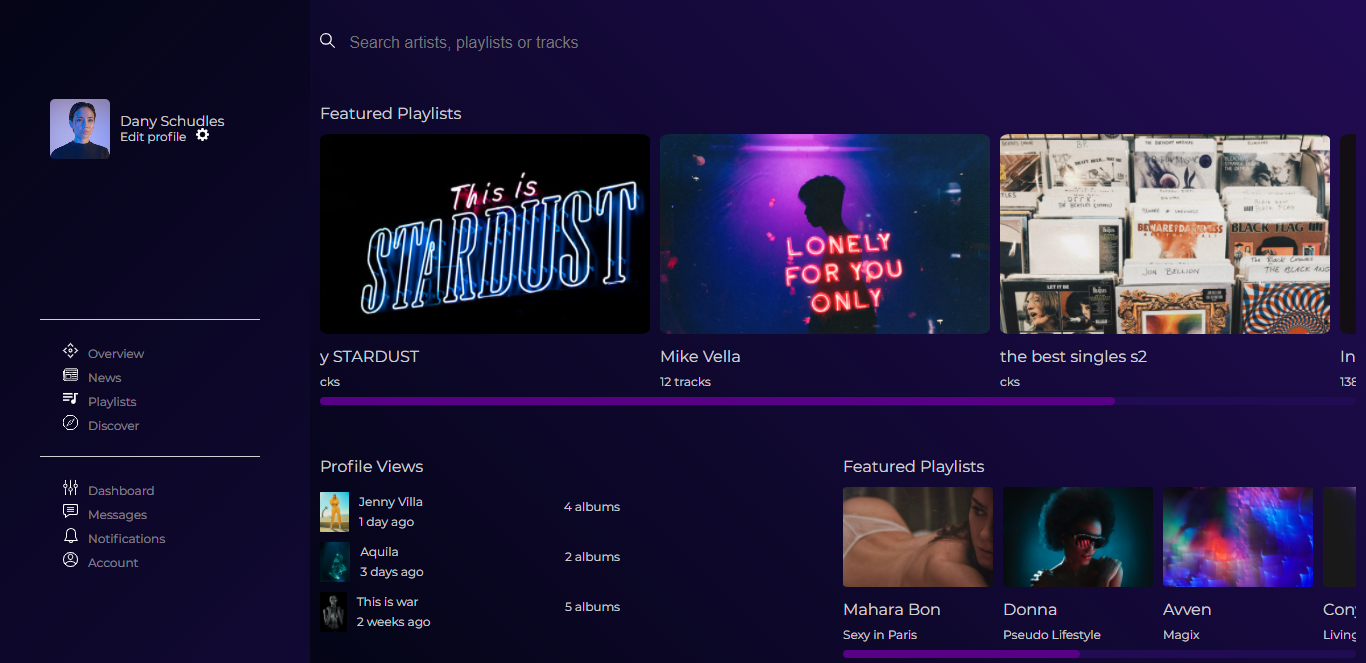
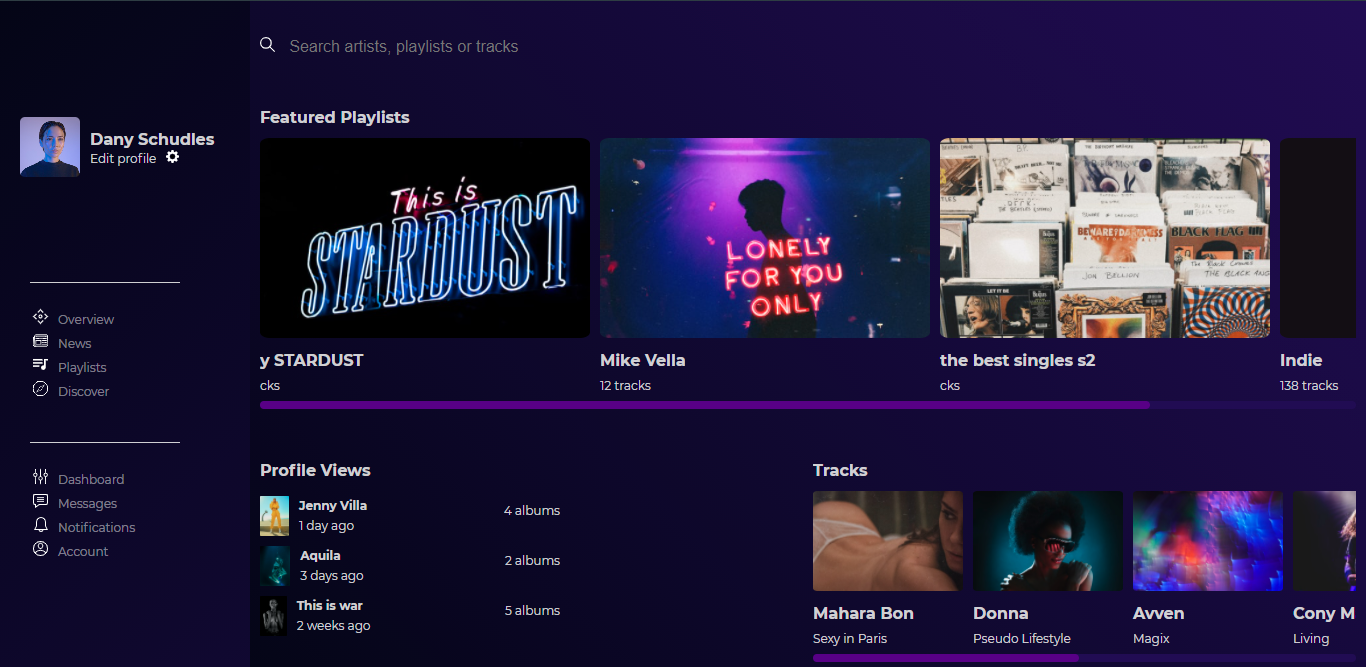
Menu and font styles corrected

diff --git a/css/style.css b/css/style.css
@@ -1,1 +1,1 @@
-html,body,div,span,applet,object,iframe,h1,h2,h3,h4,h5,h6,p,blockquote,pre,a,abbr,acronym,address,big,cite,code,del,dfn,em,img,ins,kbd,q,s,samp,small,strike,strong,sub,sup,tt,var,b,u,i,center,dl,dt,dd,ol,ul,li,fieldset,form,label,legend,table,caption,tbody,tfoot,thead,tr,th,td,article,aside,canvas,details,embed,figure,figcaption,footer,header,hgroup,menu,nav,output,ruby,section,summary,time,mark,audio,video{margin:0;padding:0;border:0;font-size:100%;font:inherit;vertical-align:baseline}:focus{outline:0}article,aside,details,figcaption,figure,footer,header,hgroup,menu,nav,section{display:block}body{line-height:1}ol,ul{list-style:none}blockquote,q{quotes:none}blockquote:before,blockquote:after,q:before,q:after{content:"";content:none}table{border-collapse:collapse;border-spacing:0}input[type=search]::-webkit-search-cancel-button,input[type=search]::-webkit-search-decoration,input[type=search]::-webkit-search-results-button,input[type=search]::-webkit-search-results-decoration{-webkit-appearance:none;-moz-appearance:none}input[type=search]{-webkit-appearance:none;-moz-appearance:none;-webkit-box-sizing:content-box;-moz-box-sizing:content-box;box-sizing:content-box}textarea{overflow:auto;vertical-align:top;resize:vertical}audio,canvas,video{display:inline-block;*display:inline;*zoom:1;max-width:100%}audio:not([controls]){display:none;height:0}[hidden]{display:none}html{font-size:100%;-webkit-text-size-adjust:100%;-ms-text-size-adjust:100%}a:focus{outline:thin dotted}a:active,a:hover{outline:0}img{border:0;-ms-interpolation-mode:bicubic}figure{margin:0}form{margin:0}fieldset{border:1px solid silver;margin:0 2px;padding:.35em .625em .75em}legend{border:0;padding:0;white-space:normal;*margin-left:-7px}button,input,select,textarea{font-size:100%;margin:0;vertical-align:baseline;*vertical-align:middle}button,input{line-height:normal}button,select{text-transform:none}button,html input[type=button],input[type=reset],input[type=submit]{-webkit-appearance:button;cursor:pointer;*overflow:visible}button[disabled],html input[disabled]{cursor:default}input[type=checkbox],input[type=radio]{box-sizing:border-box;padding:0;*height:13px;*width:13px}input[type=search]{-webkit-appearance:textfield;-moz-box-sizing:content-box;-webkit-box-sizing:content-box;box-sizing:content-box}input[type=search]::-webkit-search-cancel-button,input[type=search]::-webkit-search-decoration{-webkit-appearance:none}button::-moz-focus-inner,input::-moz-focus-inner{border:0;padding:0}textarea{overflow:auto;vertical-align:top}table{border-collapse:collapse;border-spacing:0}html,button,input,select,textarea{color:#222}::-moz-selection{background:#b3d4fc;text-shadow:none}::selection{background:#b3d4fc;text-shadow:none}img{vertical-align:middle}fieldset{border:0;margin:0;padding:0}textarea{resize:vertical}.chromeframe{margin:.2em 0;background:#ccc;color:#000;padding:.2em 0}@keyframes menuAnima{from{transform:translate3d(0px, 500px, 0px)}to{transform:translate3d(0px, 0px, 0px)}}@keyframes animaBtn{from{opacity:0;transform:translate3d(80px, 0px, 0px)}to{opacity:1;transform:translate3d(0px, 0px, 0px)}}*,body,p,ul,li,h1,h2,h3{margin:0;padding:0}ul{list-style:none}a{text-decoration:none}body{height:100vh;font-family:"Montserrat","Helvetica",Arial,sans-serif;background:linear-gradient(135deg, #040517, #200f56) center center no-repeat;overflow:hidden;height:-webkit-fit-content;height:-moz-fit-content;height:fit-content}@media(min-width: 760px)and (max-width: 1099px){body{overflow-y:auto}}@media(max-width: 759px){body{overflow-y:auto;background:#040517}}img{width:100%}.container{display:grid;grid-template-columns:minmax(300px, 1fr) 2fr 2fr;gap:10px;justify-content:center;justify-items:center;align-items:center}@media(max-width: 759px){.container{grid-template-columns:1fr 1fr}}.content{grid-column:2/-1;display:grid;grid-template-columns:minmax(300px, 1fr) 1fr;gap:10px;justify-content:center;align-content:space-around;background:linear-gradient(45deg, #040517, #200f56) center center no-repeat;padding:10px;height:100vh}@media(min-width: 760px)and (max-width: 1099px){.content{height:-webkit-fit-content;height:-moz-fit-content;height:fit-content}}@media(max-width: 759px){.content{grid-column:1/-1;height:-webkit-fit-content;height:-moz-fit-content;height:fit-content}}.sidenav{grid-column:1;display:grid;grid-template-rows:minmax(100px, 150px) 1fr;align-items:start}@media(max-width: 759px){.sidenav{grid-column:1/-1;grid-row:2;justify-items:center;width:100%;height:100px}}.profile{display:flex;align-items:center;width:200px;padding:10px}.profile img{max-width:60px;max-height:60px;object-fit:cover;margin-right:10px;border-radius:5px}.profile h1{font-size:0.875em;color:#e5e5e5e7;display:block}.profile p{font-size:0.75em;color:#e5e5e5e7}.profile p::after{content:"";display:inline-block;background:url(../../img/config.svg) center center no-repeat;width:13px;height:13px;margin-left:10px}.profile .btnMenu{display:none}@media(max-width: 759px){.profile{grid-row:2;width:100%;height:100px;background:#040517;position:fixed;bottom:0;z-index:2}.profile .btnMenu{display:inline-block;position:absolute;right:40px;width:25px}.profile .btnMenu img{border-radius:0px}}.menu{grid-row:2;margin-top:80px}.menu ul{border-top:1px solid #e5e5e5e7;padding:20px}.menu ul li{align-items:center;padding:3px}.menu a{font-size:0.75em;color:rgba(255,255,255,.479);-webkit-transition:color .3s;-moz-transition:color .3s;transition:color .3s}.menu a:hover{color:#fff}.menu .overview::before{content:"";display:inline-block;background:url(../../img/overview.svg) center center no-repeat;width:15px;height:15px;margin-right:10px}.menu .news::before{content:"";display:inline-block;background:url(../../img/news.svg) center center no-repeat;width:15px;height:15px;margin-right:10px}.menu .playlists::before{content:"";display:inline-block;background:url(../../img/playlist.svg) center center no-repeat;width:15px;height:15px;margin-right:10px}.menu .discover::before{content:"";display:inline-block;background:url(../../img/compass.svg) center center no-repeat;width:15px;height:15px;margin-right:10px}.menu .dashboard::before{content:"";display:inline-block;background:url(../../img/settings.svg) center center no-repeat;width:15px;height:15px;margin-right:10px}.menu .messages::before{content:"";display:inline-block;background:url(../../img/message.svg) center center no-repeat;width:15px;height:15px;margin-right:10px}.menu .notifications::before{content:"";display:inline-block;background:url(../../img/notifications.svg) center center no-repeat;width:15px;height:15px;margin-right:10px}.menu .account::before{content:"";display:inline-block;background:url(../../img/account.svg) center center no-repeat;width:15px;height:15px;margin-right:10px}.menu .btnClose{display:none;width:20px;padding:10px}@media(max-width: 759px){.menu{display:none;grid-column:1/-1;margin-top:0;z-index:3}.menu.active{display:flex;flex:1;flex-flow:column;justify-content:center;align-content:center;align-items:center;position:absolute;width:100vw;height:100vmax;top:0px;left:0px;animation:menuAnima ease-in-out .3s;margin-top:0;background-color:#040517}.menu.active ul:nth-child(2){margin-top:-100px}.menu.active ul{border:none;min-width:150px}.menu.active ul li{padding:6px}.menu.active a{font-size:1em}.menu.active .btnClose{display:block;position:absolute;top:30px;right:40px;animation:animaBtn ease-in .4s}}.search{grid-column:1/-1;margin-top:10px}.search input{width:250px;background:none;border:none;outline:none;color:#e5e5e5e7}.search input::placeholder,.search input::-moz-placeholder,.search input::-webkit-input-placeholder{color:#e5e5e5e7}.search::before{content:"";display:inline-block;background:url(../../img/search.svg) center center no-repeat;width:15px;height:15px;margin-right:10px}.featured{grid-column:1/-1;width:100%;height:90%}.featured h1{font-size:1em;color:#e5e5e5e7;line-height:20px;margin-top:10px;margin-bottom:10px}@media(min-width: 760px)and (max-width: 1099px){.featured h1{margin-top:5px}}.featured p{font-size:0.75em;color:#e5e5e5e7;line-height:10px;margin-bottom:10px}.featured ul{display:flex}.featured .featured-wrapper{width:100%;overflow-x:scroll;scrollbar-color:#55068a #200f56;scrollbar-width:thin}.featured .featured-wrapper ul li+li{margin-left:10px}.featured .featured-wrapper::-webkit-scrollbar{height:8px}.featured .featured-wrapper::-webkit-scrollbar-track{background-color:#200f56;border-radius:10px}.featured .featured-wrapper::-webkit-scrollbar-thumb{background-color:#55068a;border-radius:10px}.featured .img-container{display:inline-block;width:330px;height:200px;overflow:hidden;border-radius:3%}.featured img{object-fit:cover;object-position:center;transition:.3s}.featured img:hover{transform:scale(1.2)}.profile-views{grid-column:1;max-width:300px}.profile-views h1{font-size:1em;color:#e5e5e5e7;line-height:20px;margin-top:10px;margin-bottom:10px}@media(min-width: 760px)and (max-width: 1099px){.profile-views h1{margin-top:5px}}.profile-views h2{font-size:0.75em;color:#e5e5e5e7;line-height:10px;margin-top:10px;margin-bottom:10px}.profile-views p{font-size:0.75em;color:#e5e5e5e7;line-height:10px;margin-bottom:10px}.profile-views ul li{display:flex;align-items:center}.profile-views ul li>p{width:100%;text-align:right}.profile-views .info{margin-left:10px;width:100%}.profile-views img{width:40px;height:40px;object-fit:cover;object-position:top;border-radius:3%}@media(min-width: 760px)and (max-width: 1099px){.profile-views{grid-column:1/-1;width:100%}}@media(max-width: 759px){.profile-views{grid-column:1/-1;width:100%}}.tracks{grid-column:2/-1;overflow:hidden;height:-webkit-fit-content;height:-moz-fit-content;height:fit-content}.tracks h1{font-size:1em;color:#e5e5e5e7;line-height:20px;margin-top:10px;margin-bottom:10px}@media(min-width: 760px)and (max-width: 1099px){.tracks h1{margin-top:5px}}.tracks p{font-size:0.75em;color:#e5e5e5e7;line-height:10px;margin-bottom:10px}.tracks ul{display:flex}.tracks .track-wrapper{overflow-x:scroll;scrollbar-color:#55068a #200f56;scrollbar-width:thin}.tracks .track-wrapper ul li+li{margin-left:10px}.tracks .track-wrapper::-webkit-scrollbar{height:8px}.tracks .track-wrapper::-webkit-scrollbar-track{background-color:#200f56;border-radius:10px}.tracks .track-wrapper::-webkit-scrollbar-thumb{background-color:#55068a;border-radius:10px}.tracks .img-container{display:inline-block;width:150px;height:100px;overflow:hidden;border-radius:3%}.tracks img{object-fit:cover;object-position:center;transition:.3s}.tracks img:hover{transform:scale(1.2)}@media(min-width: 760px)and (max-width: 1099px){.tracks{grid-column:1/-1}}@media(max-width: 759px){.tracks{grid-column:1/-1}}/*# sourceMappingURL=style.css.map */
+html,body,div,span,applet,object,iframe,h1,h2,h3,h4,h5,h6,p,blockquote,pre,a,abbr,acronym,address,big,cite,code,del,dfn,em,img,ins,kbd,q,s,samp,small,strike,strong,sub,sup,tt,var,b,u,i,center,dl,dt,dd,ol,ul,li,fieldset,form,label,legend,table,caption,tbody,tfoot,thead,tr,th,td,article,aside,canvas,details,embed,figure,figcaption,footer,header,hgroup,menu,nav,output,ruby,section,summary,time,mark,audio,video{margin:0;padding:0;border:0;font-size:100%;font:inherit;vertical-align:baseline}:focus{outline:0}article,aside,details,figcaption,figure,footer,header,hgroup,menu,nav,section{display:block}body{line-height:1}ol,ul{list-style:none}blockquote,q{quotes:none}blockquote:before,blockquote:after,q:before,q:after{content:"";content:none}table{border-collapse:collapse;border-spacing:0}input[type=search]::-webkit-search-cancel-button,input[type=search]::-webkit-search-decoration,input[type=search]::-webkit-search-results-button,input[type=search]::-webkit-search-results-decoration{-webkit-appearance:none;-moz-appearance:none}input[type=search]{-webkit-appearance:none;-moz-appearance:none;-webkit-box-sizing:content-box;-moz-box-sizing:content-box;box-sizing:content-box}textarea{overflow:auto;vertical-align:top;resize:vertical}audio,canvas,video{display:inline-block;*display:inline;*zoom:1;max-width:100%}audio:not([controls]){display:none;height:0}[hidden]{display:none}html{font-size:100%;-webkit-text-size-adjust:100%;-ms-text-size-adjust:100%}a:focus{outline:thin dotted}a:active,a:hover{outline:0}img{border:0;-ms-interpolation-mode:bicubic}figure{margin:0}form{margin:0}fieldset{border:1px solid silver;margin:0 2px;padding:.35em .625em .75em}legend{border:0;padding:0;white-space:normal;*margin-left:-7px}button,input,select,textarea{font-size:100%;margin:0;vertical-align:baseline;*vertical-align:middle}button,input{line-height:normal}button,select{text-transform:none}button,html input[type=button],input[type=reset],input[type=submit]{-webkit-appearance:button;cursor:pointer;*overflow:visible}button[disabled],html input[disabled]{cursor:default}input[type=checkbox],input[type=radio]{box-sizing:border-box;padding:0;*height:13px;*width:13px}input[type=search]{-webkit-appearance:textfield;-moz-box-sizing:content-box;-webkit-box-sizing:content-box;box-sizing:content-box}input[type=search]::-webkit-search-cancel-button,input[type=search]::-webkit-search-decoration{-webkit-appearance:none}button::-moz-focus-inner,input::-moz-focus-inner{border:0;padding:0}textarea{overflow:auto;vertical-align:top}table{border-collapse:collapse;border-spacing:0}html,button,input,select,textarea{color:#222}::-moz-selection{background:#b3d4fc;text-shadow:none}::selection{background:#b3d4fc;text-shadow:none}img{vertical-align:middle}fieldset{border:0;margin:0;padding:0}textarea{resize:vertical}.chromeframe{margin:.2em 0;background:#ccc;color:#000;padding:.2em 0}@keyframes menuAnima{from{transform:translate3d(0px, 500px, 0px)}to{transform:translate3d(0px, 0px, 0px)}}@keyframes animaBtn{from{opacity:0;transform:translate3d(80px, 0px, 0px)}to{opacity:1;transform:translate3d(0px, 0px, 0px)}}*,body,p,ul,li,h1,h2,h3{margin:0;padding:0}ul{list-style:none}a{text-decoration:none}body{height:100vh;font-family:"Montserrat","Helvetica",Arial,sans-serif;background:linear-gradient(135deg, #040517, #200f56) center center no-repeat;overflow:hidden;height:-webkit-fit-content;height:-moz-fit-content;height:fit-content}@media(min-width: 760px)and (max-width: 1099px){body{overflow-y:auto}}@media(max-width: 759px){body{overflow-y:auto;background:#040517}}img{width:100%}.container{display:grid;grid-template-columns:minmax(100px, 240px) 2fr 2fr;gap:10px;justify-content:center;justify-items:center;align-items:center}@media(max-width: 759px){.container{grid-template-columns:1fr 1fr}}.content{grid-column:2/-1;display:grid;grid-template-columns:minmax(300px, 1fr) 1fr;gap:10px;justify-content:center;align-content:space-around;background:linear-gradient(45deg, #040517, #200f56) center center no-repeat;padding:10px;height:100vh}@media(min-width: 760px)and (max-width: 1099px){.content{height:-webkit-fit-content;height:-moz-fit-content;height:fit-content}}@media(max-width: 759px){.content{grid-column:1/-1;height:-webkit-fit-content;height:-moz-fit-content;height:fit-content}}.sidenav{grid-column:1;display:grid;grid-template-rows:minmax(100px, 150px) 1fr;align-items:start}@media(max-width: 759px){.sidenav{grid-column:1/-1;grid-row:2;justify-items:center;width:100%;height:100px}}.profile{display:flex;align-items:center;width:200px;padding:10px}.profile img{max-width:60px;max-height:60px;object-fit:cover;margin-right:10px;border-radius:5px}.profile h1{font-family:"Montserrat","Helvetica",Arial,sans-serif;font-size:1em;font-weight:bold;color:#e5e5e5e7;line-height:20px;margin-top:10px;margin-bottom:10px;margin:0px;color:#e5e5e5e7;display:block}@media(min-width: 760px)and (max-width: 1099px){.profile h1{margin-top:5px}}.profile p{font-size:0.75em;color:#e5e5e5e7}.profile p::after{content:"";display:inline-block;background:url(../../img/config.svg) center center no-repeat;width:13px;height:13px;margin-left:10px}.profile .btnMenu{display:none}@media(max-width: 759px){.profile{grid-row:2;width:100%;height:100px;background:#040517;position:fixed;bottom:0;z-index:2}.profile .btnMenu{display:inline-block;position:absolute;right:40px;width:25px}.profile .btnMenu img{border-radius:0px}}.menu{grid-row:2;margin-top:5px}.menu ul{padding:20px}.menu ul::before{content:"";display:inline-block;background:#e5e5e5e7;width:150px;height:1px;margin-bottom:20px}@media(max-width: 759px){.menu ul::before{display:none}}.menu ul li{align-items:center;padding:3px}.menu a{font-size:0.75em;color:rgba(255,255,255,.479);-webkit-transition:color .3s;-moz-transition:color .3s;transition:color .3s}.menu a:hover{color:#fff}.menu .overview::before{content:"";display:inline-block;background:url(../../img/overview.svg) center center no-repeat;width:15px;height:15px;margin-right:10px}.menu .news::before{content:"";display:inline-block;background:url(../../img/news.svg) center center no-repeat;width:15px;height:15px;margin-right:10px}.menu .playlists::before{content:"";display:inline-block;background:url(../../img/playlist.svg) center center no-repeat;width:15px;height:15px;margin-right:10px}.menu .discover::before{content:"";display:inline-block;background:url(../../img/compass.svg) center center no-repeat;width:15px;height:15px;margin-right:10px}.menu .dashboard::before{content:"";display:inline-block;background:url(../../img/settings.svg) center center no-repeat;width:15px;height:15px;margin-right:10px}.menu .messages::before{content:"";display:inline-block;background:url(../../img/message.svg) center center no-repeat;width:15px;height:15px;margin-right:10px}.menu .notifications::before{content:"";display:inline-block;background:url(../../img/notifications.svg) center center no-repeat;width:15px;height:15px;margin-right:10px}.menu .account::before{content:"";display:inline-block;background:url(../../img/account.svg) center center no-repeat;width:15px;height:15px;margin-right:10px}.menu .btnClose{display:none;width:20px;padding:10px}@media(max-width: 759px){.menu{display:none;grid-column:1/-1;margin-top:0;z-index:3}.menu.active{display:flex;flex:1;flex-flow:column;justify-content:center;align-content:center;align-items:center;position:absolute;width:100vw;height:100vmax;top:0px;left:0px;animation:menuAnima ease-in-out .3s;margin-top:0;background-color:#040517}.menu.active ul:nth-child(2){margin-top:-100px}.menu.active ul{border:none;min-width:150px}.menu.active ul li{padding:6px}.menu.active a{font-size:1em}.menu.active .btnClose{display:block;position:absolute;top:30px;right:40px;animation:animaBtn ease-in .4s}}.search{grid-column:1/-1;margin-top:10px}.search input{width:250px;background:none;border:none;outline:none;color:#e5e5e5e7}.search input::placeholder,.search input::-moz-placeholder,.search input::-webkit-input-placeholder{color:#e5e5e5e7}.search::before{content:"";display:inline-block;background:url(../../img/search.svg) center center no-repeat;width:15px;height:15px;margin-right:10px}.featured{grid-column:1/-1;width:100%;height:90%}.featured h1{font-family:"Montserrat","Helvetica",Arial,sans-serif;font-size:1em;font-weight:bold;color:#e5e5e5e7;line-height:20px;margin-top:10px;margin-bottom:10px}@media(min-width: 760px)and (max-width: 1099px){.featured h1{margin-top:5px}}.featured p{font-size:0.75em;color:#e5e5e5e7;line-height:10px;margin-bottom:10px}.featured ul{display:flex}.featured .featured-wrapper{width:100%;overflow-x:scroll;scrollbar-color:#55068a #200f56;scrollbar-width:thin}.featured .featured-wrapper ul li+li{margin-left:10px}.featured .featured-wrapper::-webkit-scrollbar{height:8px}.featured .featured-wrapper::-webkit-scrollbar-track{background-color:#200f56;border-radius:10px}.featured .featured-wrapper::-webkit-scrollbar-thumb{background-color:#55068a;border-radius:10px}.featured .img-container{display:inline-block;width:330px;height:200px;overflow:hidden;border-radius:3%}.featured img{object-fit:cover;object-position:center;transition:.3s}.featured img:hover{transform:scale(1.2)}.profile-views{grid-column:1;max-width:300px}.profile-views h1{font-family:"Montserrat","Helvetica",Arial,sans-serif;font-size:1em;font-weight:bold;color:#e5e5e5e7;line-height:20px;margin-top:10px;margin-bottom:10px}@media(min-width: 760px)and (max-width: 1099px){.profile-views h1{margin-top:5px}}.profile-views h2{font-family:"Montserrat","Helvetica",Arial,sans-serif;font-weight:bold;font-size:0.75em;color:#e5e5e5e7;line-height:10px;margin-top:10px;margin-bottom:10px}.profile-views p{font-size:0.75em;color:#e5e5e5e7;line-height:10px;margin-bottom:10px}.profile-views ul li{display:flex;align-items:center}.profile-views ul li>p{width:100%;text-align:right}.profile-views .info{margin-left:10px;width:100%}.profile-views img{width:40px;height:40px;object-fit:cover;object-position:top;border-radius:3%}@media(min-width: 760px)and (max-width: 1099px){.profile-views{grid-column:1/-1;width:100%}}@media(max-width: 759px){.profile-views{grid-column:1/-1;width:100%}}.tracks{grid-column:2/-1;overflow:hidden;height:-webkit-fit-content;height:-moz-fit-content;height:fit-content}.tracks h1{font-family:"Montserrat","Helvetica",Arial,sans-serif;font-size:1em;font-weight:bold;color:#e5e5e5e7;line-height:20px;margin-top:10px;margin-bottom:10px}@media(min-width: 760px)and (max-width: 1099px){.tracks h1{margin-top:5px}}.tracks p{font-size:0.75em;color:#e5e5e5e7;line-height:10px;margin-bottom:10px}.tracks ul{display:flex}.tracks .track-wrapper{overflow-x:scroll;scrollbar-color:#55068a #200f56;scrollbar-width:thin}.tracks .track-wrapper ul li+li{margin-left:10px}.tracks .track-wrapper::-webkit-scrollbar{height:8px}.tracks .track-wrapper::-webkit-scrollbar-track{background-color:#200f56;border-radius:10px}.tracks .track-wrapper::-webkit-scrollbar-thumb{background-color:#55068a;border-radius:10px}.tracks .img-container{display:inline-block;width:150px;height:100px;overflow:hidden;border-radius:3%}.tracks img{object-fit:cover;object-position:center;transition:.3s}.tracks img:hover{transform:scale(1.2)}@media(min-width: 760px)and (max-width: 1099px){.tracks{grid-column:1/-1}}@media(max-width: 759px){.tracks{grid-column:1/-1}}/*# sourceMappingURL=style.css.map */

diff --git a/css/scss/_sidenav.scss b/css/scss/_sidenav.scss
@@ -26,7 +26,8 @@
     border-radius: 5px;
   }
   h1 {
-    font-size: em(14);
+    @include title(h1);
+    margin: 0px;
     color: $white;
     display: block;
   }
@@ -66,9 +67,19 @@
 
 .menu {
   grid-row: 2;
-  margin-top: 80px;
+  margin-top: 5px;
   ul {
-    border-top: 1px solid $white;
+    &::before {
+      content: "";
+      display: inline-block;
+      background: $white;
+      width: 150px;
+      height: 1px;
+      margin-bottom: 20px;
+      @include d(s) {
+        display: none;
+      }
+    }
     padding: $gutter * 2;
     li {
       align-items: center;

diff --git a/css/scss/_variaveis-e-mixins.scss b/css/scss/_variaveis-e-mixins.scss
@@ -50,7 +50,9 @@ $small: 480;
 
 @mixin title($type) {
   @if $type == h1 {
+    font-family: $font;
     font-size: em(16);
+    font-weight: bold;
     color: $white;
     line-height: 20px;
     margin-top: $gutter;
@@ -60,6 +62,8 @@ $small: 480;
     }
   }
   @if $type == h2 {
+    font-family: $font;
+    font-weight: bold;
     font-size: em(12);
     color: $white;
     line-height: 10px;

diff --git a/css/scss/_grid.scss b/css/scss/_grid.scss
@@ -1,6 +1,6 @@
 .container {
   display: grid;
-  grid-template-columns: minmax(300px, 1fr) 2fr 2fr;
+  grid-template-columns: minmax(100px, 240px) 2fr 2fr;
   gap: $gutter;
   justify-content: center;
   justify-items: center;

diff --git a/index.html b/index.html
@@ -129,7 +129,7 @@
         </section>
 
         <section class="tracks">
-          <h1>Featured Playlists</h1>
+          <h1>Tracks</h1>
           <div class="track-wrapper">
             <ul>
               <li>
